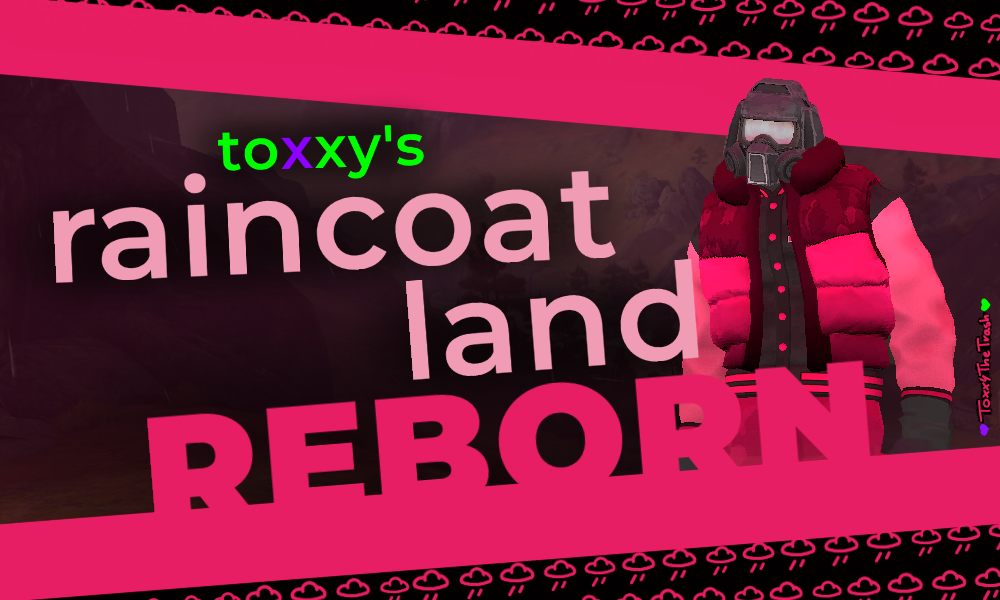
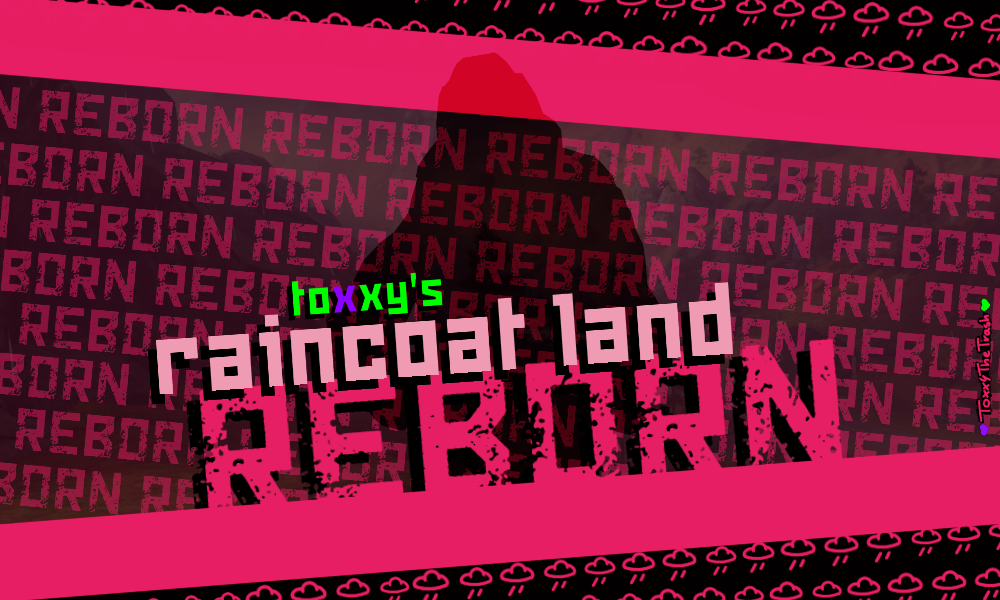
de-halloweenification

diff --git a/motd/motd.html b/motd/motd.html
@@ -13,31 +13,25 @@
 <link rel="preconnect" href="https://fonts.gstatic.com" crossorigin>
 <link href="https://fonts.googleapis.com/css2?family=Montserrat:wght@700&display=swap" rel="stylesheet">
 			
-<center><img alt="" src="https://toxxythetrash.github.io/RLR-OFResources/motd/banner_hw.png"
+<center><img alt="" src="https://toxxythetrash.github.io/RLR-OFResources/motd/banner.png"
 		style="height:360px; width:600px" ></center>
 
 <p style="text-align:center"><span style="font-family:Montserrat"><span style="font-size:30px"><span
-				style="color:#ff7d00"><strong>Welcome to Raincoat Land<span style="color:#e91e63"><strong>
-						</strong></span></strong></span><span style="color:#2fd79d"><strong>RESURRECTED</strong></span><span
-				style="color:#ff7d00"><strong>!</strong></span><br />
-			<span style="color:#e91e63"><strong><span style="color:#dddddd"><span style="font-size:15px">a complete reboot of
-						</span></span><span style="color:#00ff00"><span style="font-size:15px">to</span></span><span
-						style="color:#8b00fe"><span style="font-size:15px">x</span></span><span style="color:#00ff00"><span
+				style="color:#e91e63"><strong>Welcome to Raincoat Land Reborn!<br />
+					<span style="color:#dddddd"><span style="font-size:15px">a complete reboot of </span></span><span
+						style="color:#00ff00"><span style="font-size:15px">to</span></span><span style="color:#8b00fe"><span
+							style="font-size:15px">x</span></span><span style="color:#00ff00"><span
 							style="font-size:15px">xy&#39;s</span></span><span style="color:#dddddd"><span
-							style="font-size:15px">&nbsp;old server - </span></span></strong></span><span
-				style="color:#ff7d00"><strong><span style="font-size:15px">now in halloween flavor!</span></strong>
-			</span></span></span></p>
+							style="font-size:15px">&nbsp;old server!</span></span></strong> </span></span></span></p>
 
-<p style="text-align:center"><strong><span style="color:#ff7d00"><span style="font-size:15px"><strong><span
+<p style="text-align:center"><strong><span style="color:#e91e63"><span style="font-size:15px"><strong><span
 						style="font-family:Montserrat">THIS IS A FUN AND CHAOTIC DM/TDM/INFECTED
 						SERVER!</span></strong></span></span><br />
 		<span style="color:#e74c3c"><span style="font-size:15px"><strong><span
 						style="font-family:Montserrat">⚠</span></strong></span></span><span style="color:#e91e63"><span
-				style="font-size:15px"><strong><span style="font-family:Montserrat">&nbsp;</span></strong></span></span><span
-			style="color:#2fd79d"><span style="font-size:15px"><strong><span style="font-family:Montserrat">THE SERVER CAN
-						CRASH AT ANY POINT</span></strong></span></span><span style="color:#e91e63"><span
-				style="font-size:15px"><strong><span style="font-family:Montserrat">&nbsp;</span></strong></span></span><span
-			style="color:#e74c3c"><span style="font-size:15px"><strong><span
+				style="font-size:15px"><strong><span style="font-family:Montserrat">&nbsp;THE SERVER CAN CRASH AT ANY
+						POINT&nbsp;</span></strong></span></span><span style="color:#e74c3c"><span
+				style="font-size:15px"><strong><span
 						style="font-family:Montserrat">⚠</span></strong></span></span></strong><br />
 	<strong><span style="font-size:15px"><strong><span style="font-family:Montserrat"><a
 						href="https://discord.gg/ssvPQn4mMM"><span style="color:#5865f2">DISCORD SERVER</span></a>&nbsp;</span><span
@@ -47,74 +41,60 @@
 
 <p style="text-align:center"><strong><span style="color:#e91e63"><span style="font-size:15px"><strong><span
 						style="font-family:Montserrat">RULES:</span></strong></span></span><br />
-		<span style="color:#2fd79d"><span style="font-size:15px"><strong><span style="font-family:Montserrat">ENGLISH
-						ONLY!</span></strong></span></span><span style="color:#dddddd"><span style="font-size:15px"><strong><span
-						style="font-family:Montserrat"> - </span></strong></span></span></strong><span style="color:#ff7d00"><span
-			style="font-size:12px"><span style="font-family:Montserrat">this helps others understand
-				you.</span></span></span><br />
-	<strong><span style="color:#2fd79d"><span style="font-size:15px"><strong><span
-						style="font-family:Montserrat">DON&#39;T HARRASS PEOPLE</span></strong></span></span><span
-			style="color:#dddddd"><span style="font-size:15px"><strong><span style="font-family:Montserrat"> -
-					</span></strong></span></span></strong><span style="color:#ff7d00"><span style="font-size:12px"><span
-				style="font-family:Montserrat">banter/sarcasm is fine.</span></span></span><br />
-	<strong><span style="color:#2fd79d"><span style="font-size:15px"><strong><span style="font-family:Montserrat">NO
-						CONTROVERSIAL/NSFW SPRAYS</span></strong></span></span><span style="color:#dddddd"><span
-				style="font-size:15px"><strong><span style="font-family:Montserrat"> -
-					</span></strong></span></span></strong><span style="color:#ff7d00"><span style="font-size:12px"><span
-				style="font-family:Montserrat">you will be spray banned.</span></span></span>
+		<span style="color:#dddddd"><span style="font-size:15px"><strong><span style="font-family:Montserrat">ENGLISH ONLY!
+						- </span></strong></span></span></strong><span style="color:#4e5f70"><span style="font-size:12px"><span
+				style="font-family:Montserrat">this helps others understand you.</span></span></span><br />
+	<strong><span style="color:#dddddd"><span style="font-size:15px"><strong><span
+						style="font-family:Montserrat">DON&#39;T HARRASS PEOPLE - </span></strong></span></span></strong><span
+		style="color:#4e5f70"><span style="font-size:12px"><span style="font-family:Montserrat">banter/sarcasm is
+				fine.</span></span></span><br />
+	<strong><span style="color:#dddddd"><span style="font-size:15px"><strong><span style="font-family:Montserrat">NO
+						CONTROVERSIAL/NSFW SPRAYS - </span></strong></span></span></strong><span style="color:#4e5f70"><span
+			style="font-size:12px"><span style="font-family:Montserrat">you will be spray banned.</span></span></span>
 </p>
 
-<p style="text-align:center"><strong><span style="color:#2fd79d"><span style="font-family:Montserrat"><span
-					style="font-size:25px">v</span></span></span><span style="color:#e91e63; font-family:Montserrat"><span
-				style="font-size:25px"> </span></span><span style="color:#ff7d00"><span style="font-family:Montserrat"><span
-					style="font-size:25px">MORE INFO - WIP</span></span></span><span style="color:#e91e63; font-family:Montserrat"><span
-				style="font-size:25px"> </span></span><span style="color:#2fd79d"><span style="font-family:Montserrat"><span
-					style="font-size:25px">v</span></span></span></strong></p>
+<p style="text-align:center"><strong><span style="color:#e91e63; font-family:Montserrat"><span style="font-size:25px">v
+				MORE INFO v</span></span></strong></p>
 
 <p style="text-align:center"><strong><span style="font-size:12px"><span style="color:#f39c12"><span
 					style="font-family:Montserrat">PLAYER RECORD: </span></span><span style="color:#27ae60"><span
 					style="font-family:Montserrat">35+ PLAYERS</span></span><br />
-			<strong><span style="font-family:Montserrat"><span style="color:#f39c12">MOTD LAST UPDATED: </span><span
-						style="color:#27ae60">October-1-2023</span></span></strong></span></strong></p>
+			<strong><span style="font-family:Montserrat"><span style="color:#f39c12">LAST UPDATED: </span><span
+						style="color:#27ae60">December-03-2023</span></span></strong></span></strong></p>
 
 <p style="text-align:center"><span style="font-size:20px"><a
-			href="https://toxxythetrash.github.io/RLR-OFResources/motd/game.html"><span style="color:#ff7d00"><span
-					style="font-family:Montserrat"><strong>GAME CHANGES</strong></span></span></a><br />
-		<a href="https://toxxythetrash.github.io/RLR-OFResources/motd/maps.html"><span style="color:#ff7d00"><span
-					style="font-family:Montserrat"><strong>MAP CHANGES</strong></span></span></a></span><br />
+			href="https://toxxythetrash.github.io/RLR-OFResources/motd/game.html"><span
+				style="color:#e91e63; font-family:Montserrat"><strong>GAME CHANGES</strong></span></a><br />
+		<a href="https://toxxythetrash.github.io/RLR-OFResources/motd/maps.html"><span
+				style="color:#e91e63; font-family:Montserrat"><strong>MAP CHANGES</strong></span></a></span><br />
 	<span style="font-size:16px"><a href="https://toxxythetrash.github.io/RLR-OFResources/motd/weapons.html"><span
-				style="color:#ff7d00"><span style="font-family:Montserrat"><strong>WEAPON
-						CHANGES</strong></span></span></a>&nbsp;<strong><span style="color:#27ae60"><span
-					style="font-family:Montserrat">⚠</span></span></strong><br />
-		<a href="https://toxxythetrash.github.io/RLR-OFResources/motd/commands.html"><span style="color:#ff7d00"><span
-					style="font-family:Montserrat"><strong>SERVER COMMANDS</strong></span></span></a><br />
-		<a href="https://toxxythetrash.github.io/RLR-OFResources/motd/randomizer.html"><span style="color:#ff7d00"><span
-					style="font-family:Montserrat"><strong>RANDOMIZER POOLS</strong></span></span></a><br />
-		<a href="http://toxxythetrash.github.io/RLR-OFResources/motd/rtd.html"><span style="color:#ff7d00"><span
-					style="font-family:Montserrat"><strong>ROLL THE DICE PERKS</strong></span></span></a></span>
+				style="color:#e91e63; font-family:Montserrat"><strong>WEAPON CHANGES</strong></span></a>&nbsp;<strong><span
+				style="color:#27ae60"><span style="font-family:Montserrat">⚠</span></span></strong><br />
+		<a href="https://toxxythetrash.github.io/RLR-OFResources/motd/commands.html"><span
+				style="color:#e91e63; font-family:Montserrat"><strong>SERVER COMMANDS</strong></span></a><br />
+		<a href="https://toxxythetrash.github.io/RLR-OFResources/motd/randomizer.html"><span
+				style="color:#e91e63; font-family:Montserrat"><strong>RANDOMIZER POOLS</strong></span></a><br />
+		<a href="http://toxxythetrash.github.io/RLR-OFResources/motd/rtd.html"><span
+				style="color:#e91e63; font-family:Montserrat"><strong>ROLL THE DICE PERKS</strong></span></a></span>
 </p>
 
-<p style="text-align:center"><strong><span style="color:#2fd79d"><span style="font-size:15px"><strong><span
-						style="font-family:Montserrat">MAP SOURCES ARE</span></strong></span></span><span
-			style="color:#e91e63"><span style="font-size:15px"><strong><span style="font-family:Montserrat">&nbsp;<a
+<p style="text-align:center"><strong><span style="color:#e91e63"><span style="font-size:15px"><strong><span
+						style="font-family:Montserrat">MAP SOURCES ARE&nbsp;<a
 							href="https://github.com/ToxxyTheTrash/RLR-OFResources">HERE</a></span></strong></span></span><br />
-		<strong><span style="font-size:12px"><span style="color:#9b59b6"><span style="font-family:Montserrat">server has
+		<span style="font-size:12px"><strong><span style="color:#9b59b6"><span style="font-family:Montserrat">server has
 						been visited by </span></span><span style="font-family:Montserrat"><a
 						href="https://www.youtube.com/@GianniMatragrano"><span
 							style="color:#2a96d5">GetGianni</span></a></span><span style="color:#9b59b6"><span
-						style="font-family:Montserrat">!</span></span></span></strong><br />
-		<span style="font-size:12px"><span style="color:#9b59b6"><strong><span style="font-family:Montserrat">open fortress
-						tools fixed by </span></strong></span><strong><span style="font-family:Montserrat"><a
-						href="https://github.com/Lucifixion"><span style="color:#f1c40f">GoopSwagger</span></a></span></strong><span
-				style="color:#9b59b6"><strong><span style="font-family:Montserrat">!</span><br />
-					<span style="font-family:Montserrat">stomp plugin fixed by </span></strong></span><a
-				href="https://github.com/Fraeven"><span style="color:#e74c3c"><strong><span
-							style="font-family:Montserrat">fraeven</span></strong></span></a><strong><span style="color:#9b59b6"><span
-						style="font-family:Montserrat">!<br />
-						zombified toxxy SFM model by </span></span><span style="color:#3c22a5"><span
-						style="font-family:Montserrat">Raziiel</span></span><span style="color:#9b59b6"><span
-						style="font-family:Montserrat">!</span></span></strong></span></strong><br />
-	&nbsp;</p>
+						style="font-family:Montserrat">!</span></span></strong><br />
+			<span style="color:#9b59b6"><strong><span style="font-family:Montserrat">stomp plugin fixed
+						by&nbsp;</span></strong></span></span></strong><span style="font-size:12px"><a
+			href="https://github.com/Fraeven"><span style="color:#e74c3c"><strong><span
+						style="font-family:Montserrat">fraeven</span></strong></span></a><strong><span style="color:#9b59b6"><span
+					style="font-family:Montserrat">!<br />
+					SFM render by </span></span><span style="color:#3c22a5"><span
+					style="font-family:Montserrat">Raziiel</span></span><span style="color:#9b59b6"><span
+					style="font-family:Montserrat">!</span></span></strong></span></p>
+
 
 </body>
 

diff --git a/README.md b/README.md
@@ -1,14 +1,14 @@
 <p align="center">
-  <img src="https://toxxythetrash.github.io/RLR-OFResources/motd/banner_hw.png" width="500">
+  <img src="https://toxxythetrash.github.io/RLR-OFResources/motd/banner.png" width="500">
 </p>
 
-# Raincoat Land RESURRECTED - Open Fortress Resources
+# Raincoat Land Reborn - Open Fortress Resources
 A repository of custom files for the Raincoat Land Reborn Open Fortress server!  
 This repository is used as a `sv_downloadurl` for a server I host in Open Fortress. It allows fast downloading of custom maps and other assets!  
 
 The fast download server is hosted on GitHub Pages [here](https://toxxythetrash.github.io/RLR-OFResources/open_fortress/)
 
-## Map Sources:  
+## Map Sources - OUTDATED:  
 **dm_downward** - port of https://gamebanana.com/mods/298050  
 **dm_badwater** - https://gamebanana.com/mods/443084  
 **dm_thundermountain** - https://gamebanana.com/mods/381041  
